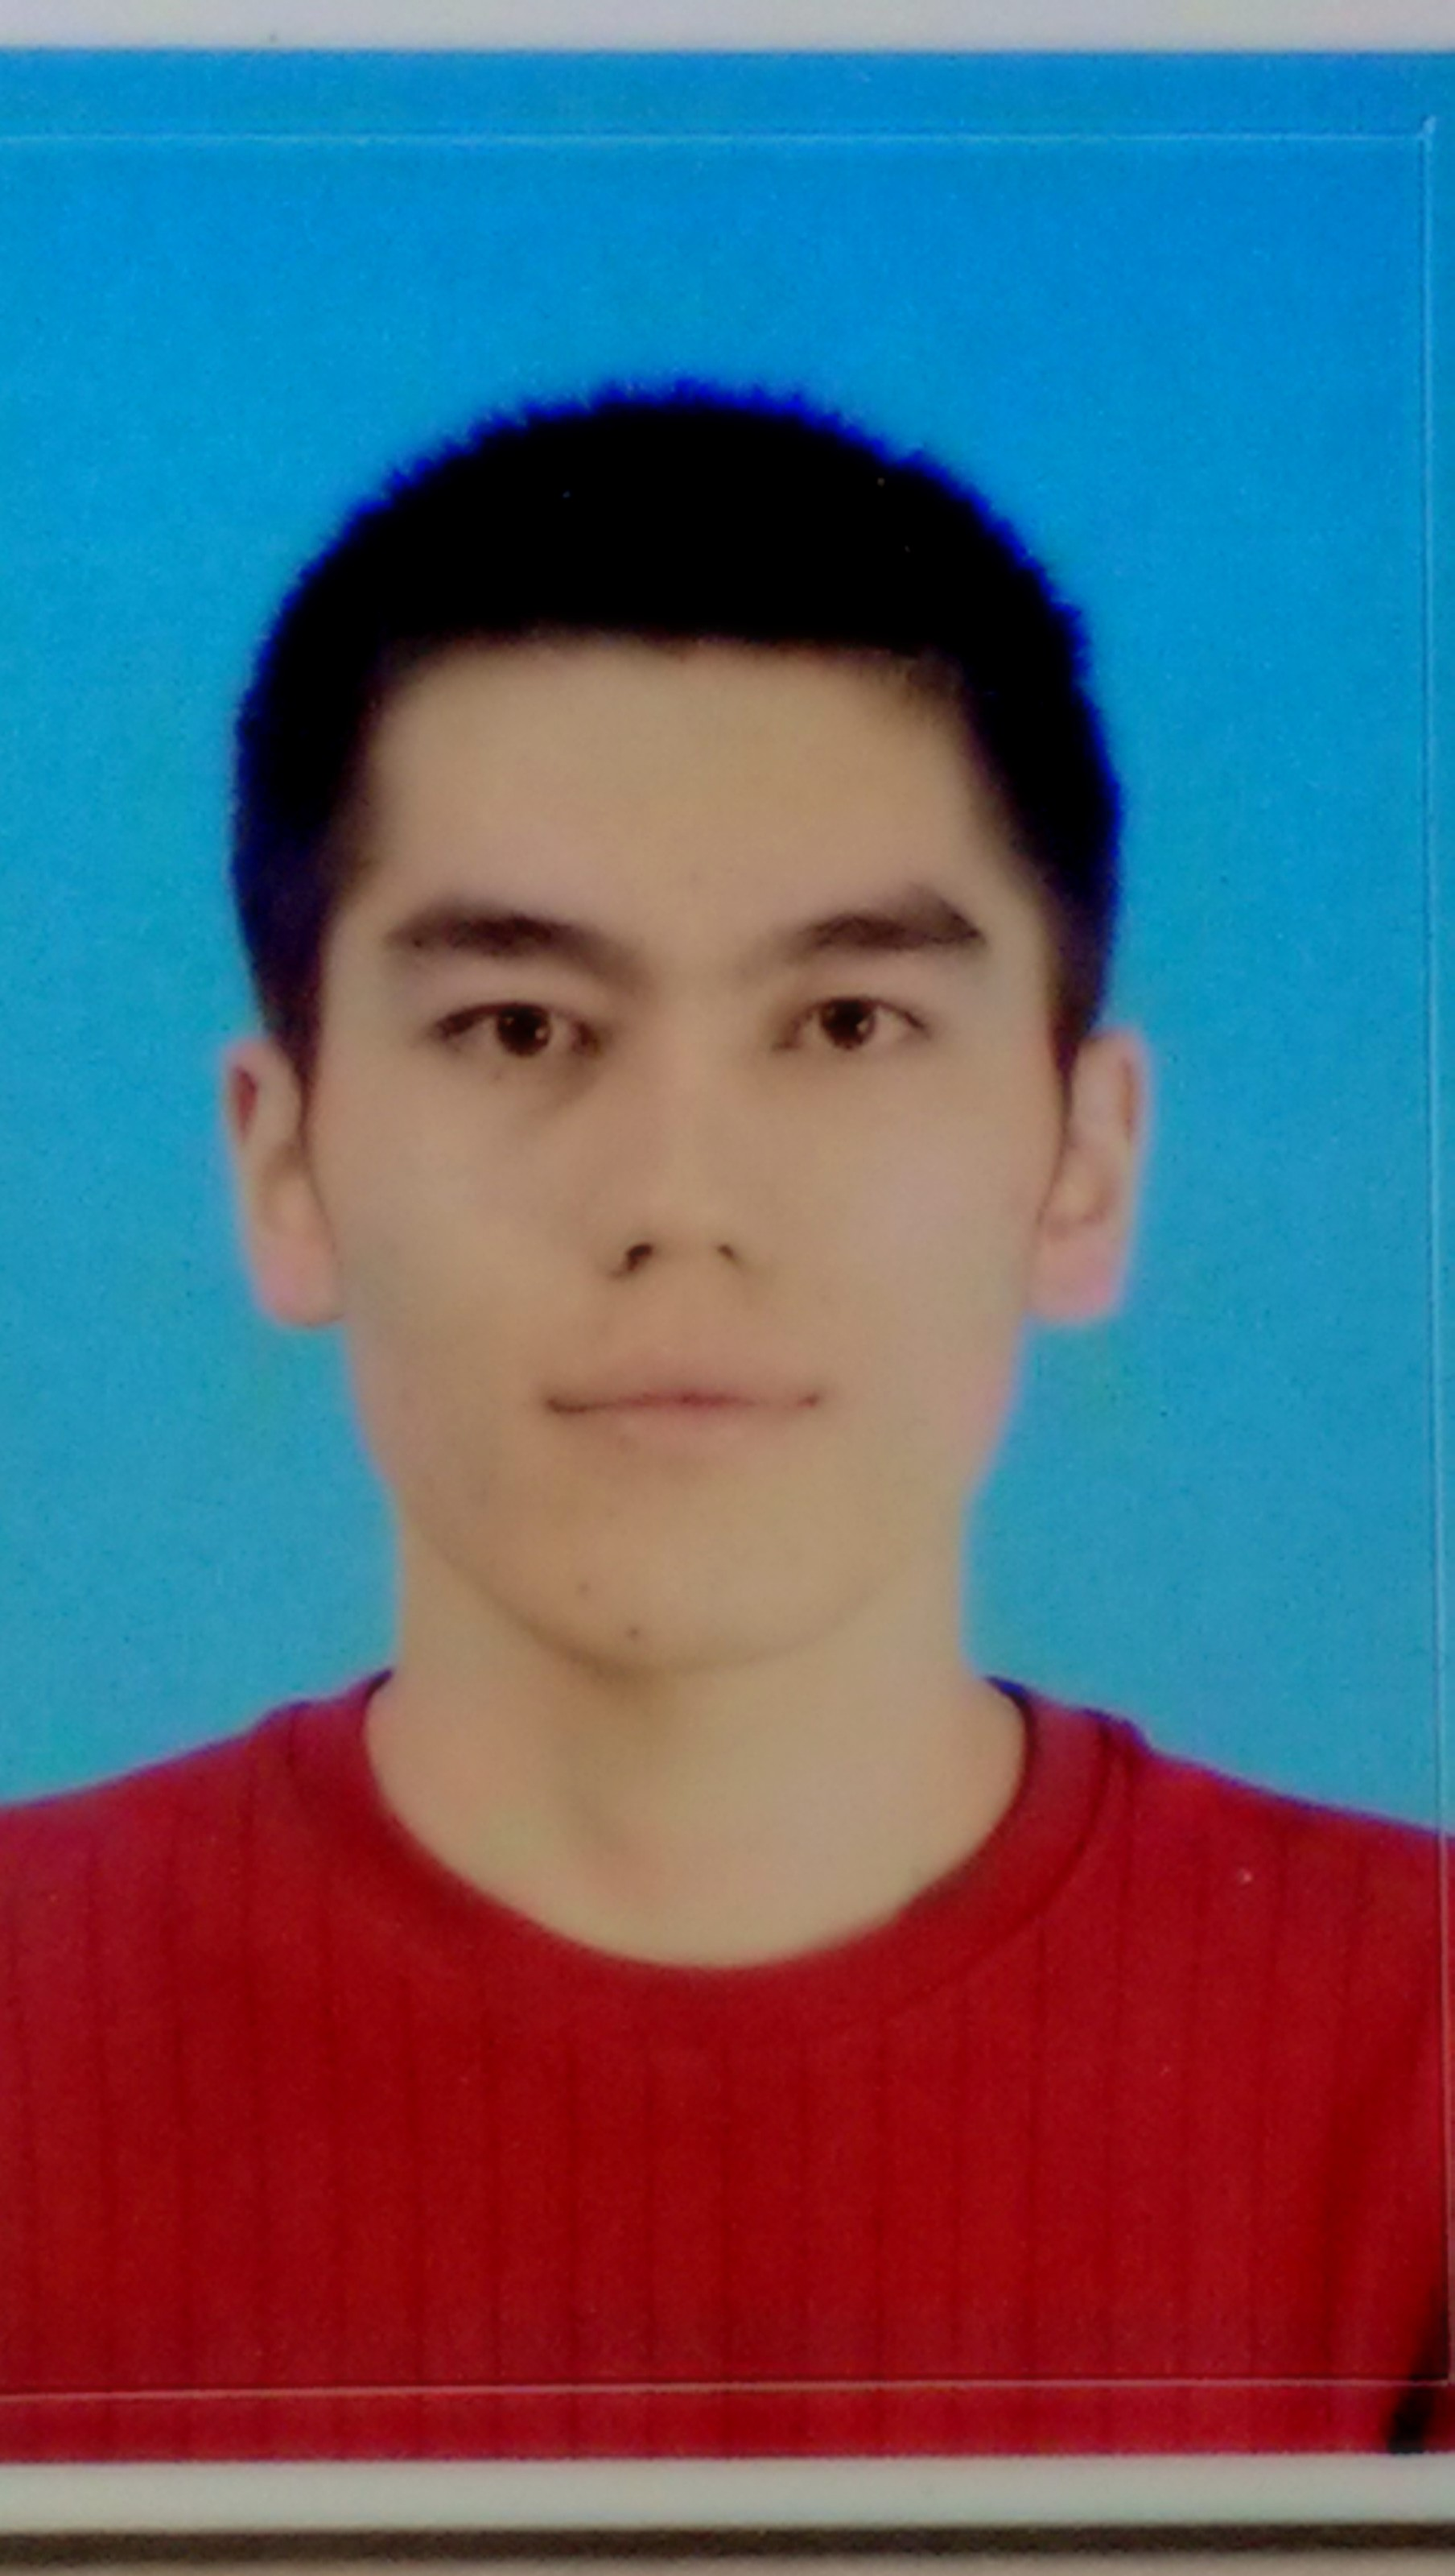
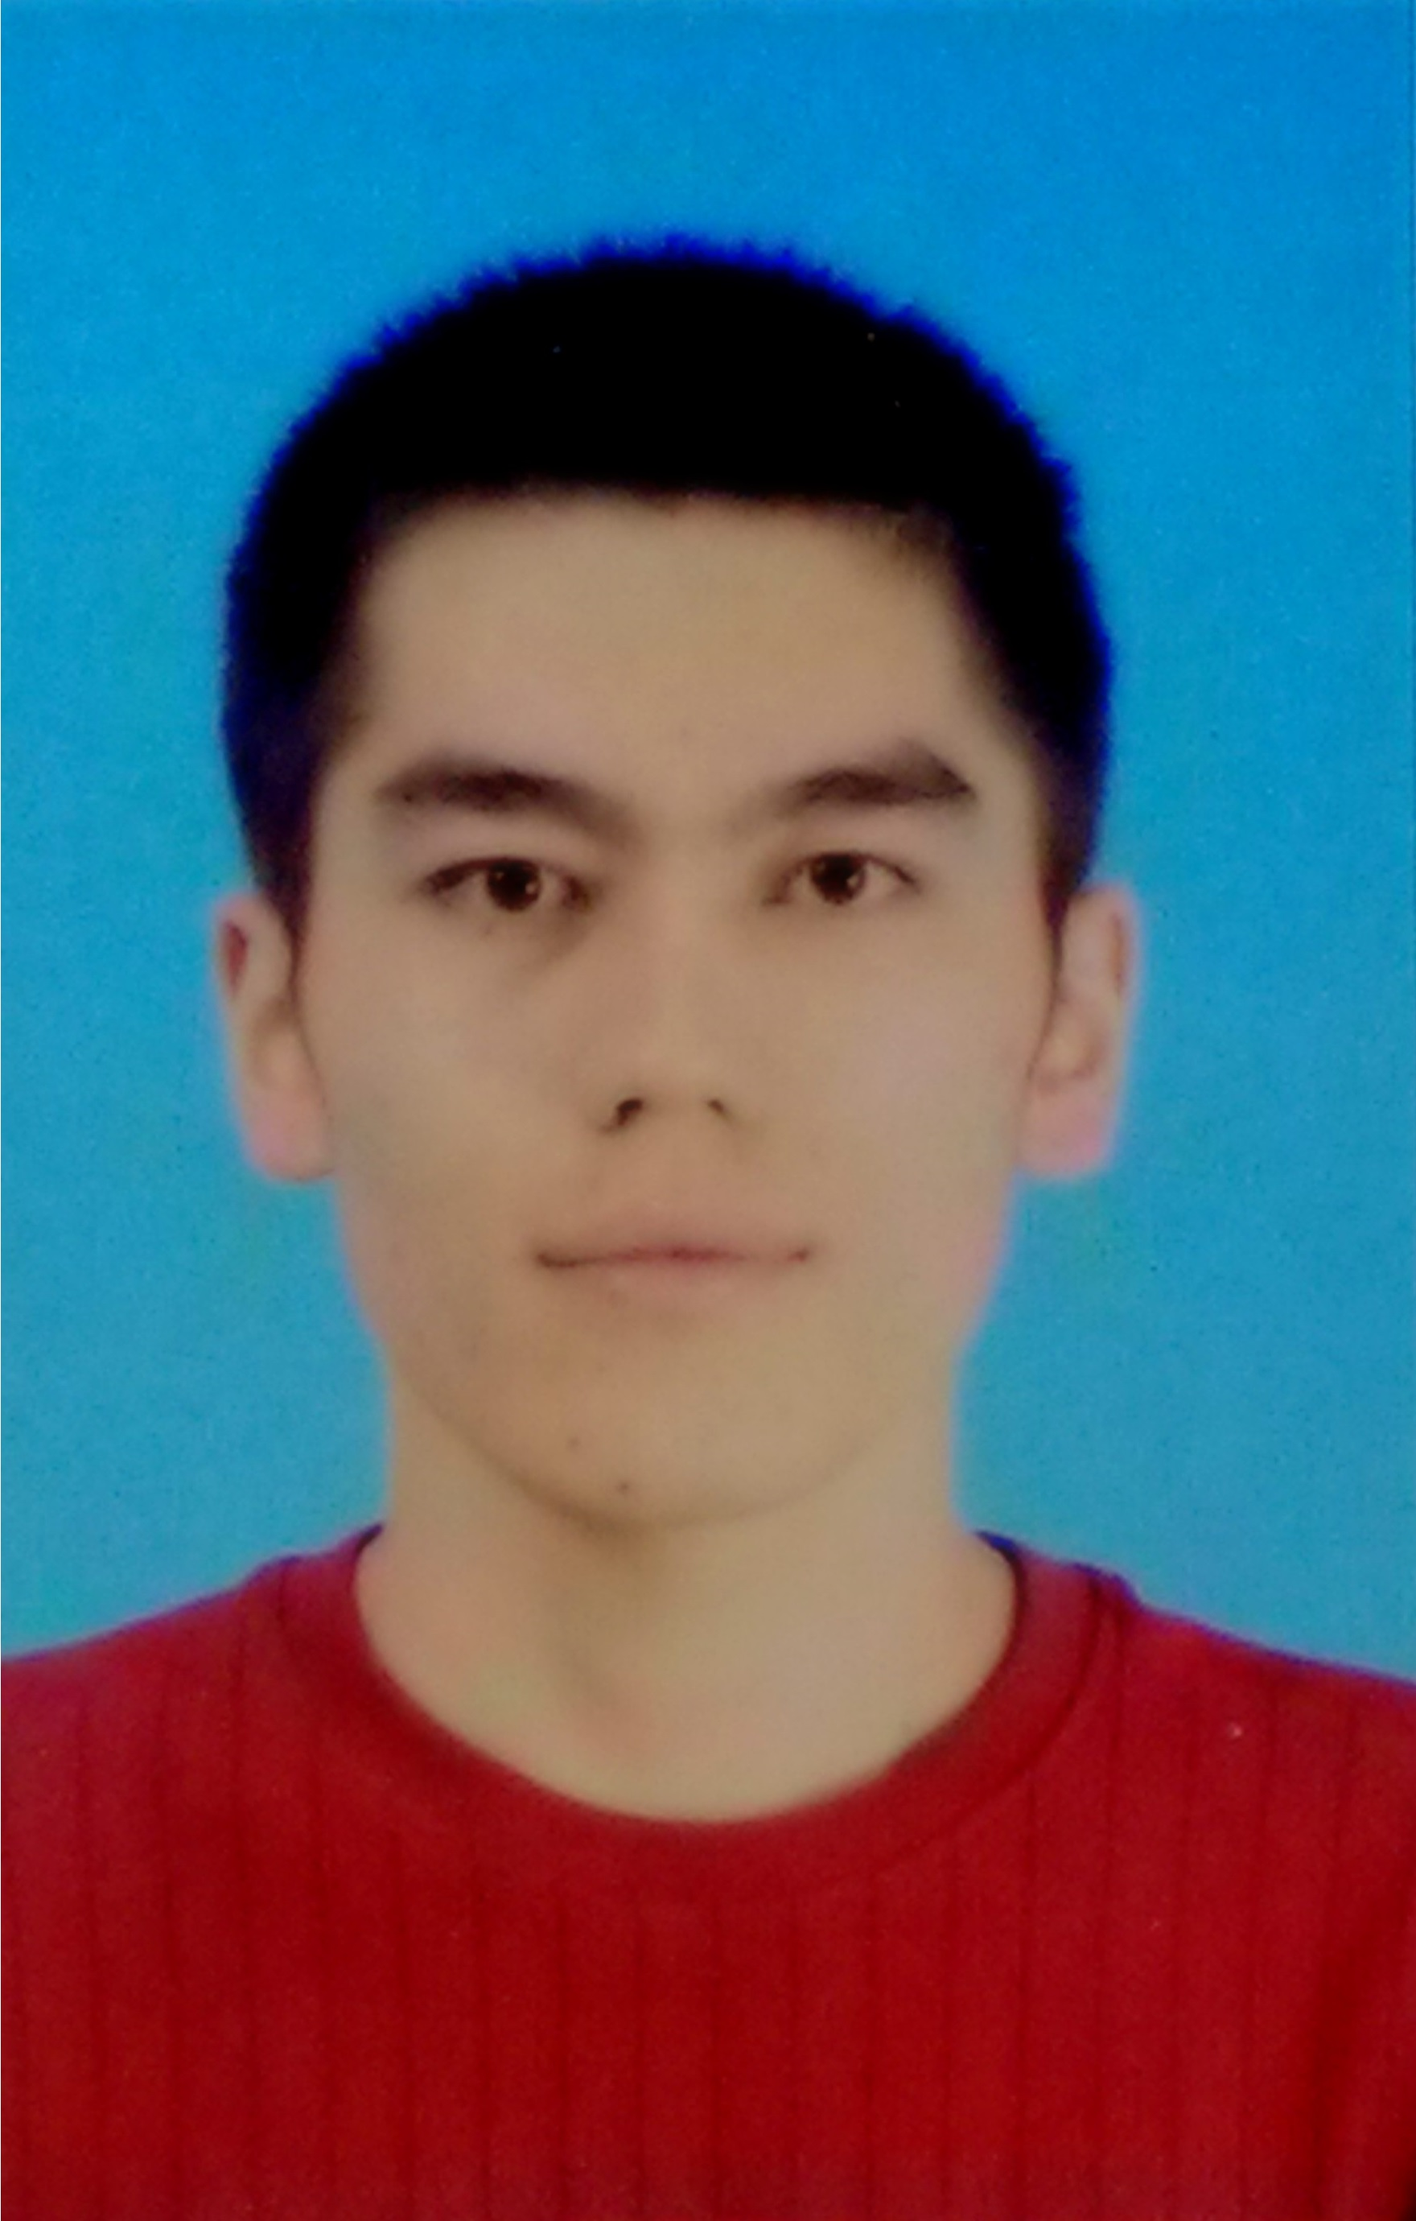
good one

diff --git a/index.html b/index.html
@@ -7,6 +7,15 @@
 <title>Wei Lu (Lu, Wei) - Statistical Natural Language Processing</title>
 <link rel="stylesheet" type="text/css" href="v8.css" />
 <meta http-equiv="Content-Type" content="text/html; charset=iso-8859-1" />
+<style type="text/css">
+<!--
+.STYLE1 {
+	font-size: x-large;
+	font-weight: bold;
+	font-family: Georgia, "Times New Roman", Times, serif;
+}
+-->
+</style>
 </head>
 <body>
 
@@ -30,67 +39,40 @@ function foo() { document.getElementById("foo").innerHTML = String.fromCharCode(
 <body text="#FFFFFF" bgcolor="#363A33" link="#D7E9CD" vlink="#D7E9CD" alink="#FF0000">
 -->
 
-<table cellSpacing="0" cellPadding="0" width="950" border="0" height="52" id="table2">
+<table cellSpacing="0" cellPadding="0" width="1156" border="0" height="52" id="table2">
       	<tr>
-        	<td vAlign="top" width="377" height="30">
+        	<td vAlign="top" width="137" height="30">
 						<p align="center">
-							<!--- --><br>
+							<!--- -->
+							<img src="photo.jpg" width="138" height="239" border="0" align="right" /><br>
 							<!--- -->
 			  </p>		  </td>
-						<td vAlign="center" width="449" height="30"><font  size="6"><b>Li Jiaying</b></font></td>
-						<td vAlign="center" width="124" height="30">
-						<p align="top"><img border="0" height="200" src="photo.jpg" /><br>
-						</p>
-						<p align="left">
-							<font  size="3">
-<!--
-							  <b>Research Fellow </b><br> Computational Linguistics Laboratory<br>
-							  <font size=2.5>Department of Computer Science, School of Computing<br>
-							  National University of Singapore<br>
-							  13 Computing Drive, Singapore 117417<br>
-								Tel: (+65) 6516 2807 Fax: (+65) 6779 4580<br>
-								Email: luwei(at)comp(dot)nus(dot)edu(dot)sg<br>
-								</font>
-							</font>
-							  <br>
-							  <b>
-								<font size =2.5>Former Affiliation:</font><font size=3> Computer Science Programme</font></b><br>
-							  <font size=2.5>
-							  Singapore-MIT Alliance<br>
-							  E4-04-10, 4 Engineering Drive 3, Singapore 117576<br>
-							  Tel: (+65) 6116 4787 Fax: (+65) 6775 2920<br>
-							  Email: luwei(at)csail(dot)mit(dot)edu
-  							  </font>-->
-						</p>		  </td>
+						<td vAlign="center" width="150" height="30"><h1>&nbsp;</h1>					    </td>
+						<td vAlign="center" width="869" height="30">
+						  <h1><span class="STYLE1">Li Jiaying</span></h1>
+						  <p>Ph.D. student, ISTD, SUTD</p>
+						  <p>Address: S6, 2.716, SUTD, 8 Somapah Rd, Singapore, 487372</p>
+						  <p>Tel: (+65)86851683</p>
+						  <p>Email: lijiaying1989@gmail.com<br>
+						  </p>
+					    </td>
       	</tr>
 </table>
-    </table>
-<hr>
-<p align="left"><font size=2><a
- href="cv.pdf">Curriculum Vitae</a> </font></p>
-
-
-
-<!--<font size=3 color="red">News:</font> I am actively looking for a research job in a university/research institute. -->
-
-<p>
-I primarily work on statistical natural language processing. In general, I am interested in employing machine learning techniques
-for better modeling of language, text and other forms of data. 
-
-<!--I received my Ph.D in Nov. 2009 from the Singapore-MIT Alliance (Computer Science) of the <a href="http://www.nus.edu.sg">National University of Singapore</a>. -->
+    <hr>
+<!--<font size=3 color="red">News:</font> I am actively looking for a research job in a university/research institute. --><!--I received my Ph.D in Nov. 2009 from the Singapore-MIT Alliance (Computer Science) of the <a href="http://www.nus.edu.sg">National University of Singapore</a>. -->
 <!-- Currently I am working as a research fellow in the Computer Science department of the National University of Singapore.-->
-
+  
 <!--
 During my Ph.D, I worked with <a href="http://www.comp.nus.edu.sg/~nght">Assoc. Prof. Ng Hwee Tou</a>, <a href="http://www.comp.nus.edu.sg/~leews">Assoc. Prof. Lee Wee Sun</a>, and <a href="http://people.csail.mit.edu/lpk/">Prof. Leslie Pack Kaelbling</a>. I studied in <a href="http://www.comp.nus.edu.sg/">School of Computing</a> of National University of Singapore as an undergraduate, where I worked with <a href="http://www.comp.nus.edu.sg/~kanmy">Assoc. Prof. Kan Min-Yen</a>.
 -->
-
+  
 <!--
 <p align="left">
 Ph.D Thesis: <b>A Hybrid Tree Framework For Semantic Parsing and Natural Language Generation</b>
  [<a href="publications/hybrid-lu09.pdf">Thesis</a>]
 </p>
 -->
-    
+  
 <!--
 <p align="left"><b><font size=3>Referred Journal Publications:</font></b></p>
 
@@ -109,51 +91,30 @@ Wei Lu and Min-Yen Kan
 
 </ul>
 -->
-
+<p align="left"><b><font size="3">Education:</font></b></p>
+<ul>
+  <li>
+    <p align="left"><strong>B.E. in College of Softeware, Nankai University, Tianjin, China, 2007-2011</strong><br />
+      <!--[<a href="publications/emnlp12dlr.pdf">Paper</a>]-->
+    </p>
+  </li>
+  <li>
+    <p align="left"><strong>Study in Institute of Computing Technology, Chinese Academy of Sciences, Beijing, China, 2011-2013</strong><br />
+      <!--[<a href="publications/emnlp09lnl.pdf">Paper</a>][<a href="publications/emnlp09lnl.ppt">Slides</a>]-->
+    </p>
+  </li>
+  <li>
+    <p align="left"><strong>Ph.D. in ISTD, SUTD, Singapore</strong><br />
+    </p>
+  </li>
+</ul>
 <p align="left"><b><font size=3>Recent Publications:</font></b></p>
-
 <ul>
 
 <li>
-<p align="left">
-<b>
-<a href="publications/acl12lr.pdf">Automatic Event Extraction with Structured Preference Modeling</a></b>
-<br>
-Wei Lu and Dan Roth   
-
-<br>
-In <i>Proceedings of ACL'12 </i>
-(The 50th Annual Meeting of the Association for Computational Linguistics).
-Jeju, Korea, July 9 - 11, 2012; pp.835-844.
-<br>
+<p align="left"><strong>N.A. </strong><br>
   <!--[<a href="publications/emnlp12dlr.pdf">Paper</a>]-->
-</p>
-<li>
-<p align="left">
-<b>
-<a href="publications/emnlp11ln.pdf">A Probabilistic Forest-to-String Model for Language Generation from Typed Lambda Calculus Expressions</a></b>
-<br>
-Wei Lu and Hwee Tou Ng
-<br>
-In <i>Proceedings of EMNLP'11 </i>(The 2011 Conference on Empirical Methods in Natural Language Processing). 
-Edinburgh, Scotland, UK, July 27 - 31, 2011; pp.1611-1622. 
-<br>
-<b>Best Paper Award</b><br>
-  <!--[<a href="publications/emnlp09lnl.pdf">Paper</a>][<a href="publications/emnlp09lnl.ppt">Slides</a>]-->
-</p>
-<li>
-<p align="left">
-<b>
-<a href="publications/emnlp08lnlz.pdf">A Generative Model for Parsing Natural Language to Meaning Representations</a></b>
-<br>
-Wei Lu, Hwee Tou Ng, Wee Sun Lee and <a href="http://people.csail.mit.edu/lsz/">Luke S. Zettlemoyer</a>
-<br>
-In <i>Proceedings of EMNLP'08</i> (The 2008 Conference on Empirical Methods in Natural Language Processing). Honolulu, Hawaii, October 25 - 27, 2008; pp.783-792 
-<br>
-<!--[<a href="publications/emnlp08lnlz.pdf">Paper</a>][<a href="publications/emnlp08lnlz.ppt">Slides</a>]-->
-<!---->
-[<a href="code/hybridtree.r.2010.12.19.tgz">Code</a>]
-<!---->
+  <!---->
 </p>
 </ul>
 
@@ -190,10 +151,6 @@ In <i>Proceedings of AIRS'05</i> (The second Asian Information Retrieval Symposi
 </ul>
 
 -->
-
-<p align="left"></p>
-<p align="left"></p>
-
 <!--
 <p align="left"><b><font size=3>Software</font></b> (available upon request):</p>
 
@@ -212,13 +169,12 @@ Semi-Markov CRF Model for Event Extraction
 <br>
 </ul>
 -->
-
 <p align="left"></p>
 <p align="left"></p>
 <p align="left"><b><font size=3>Current interests:</font></b></p>
 
 <p align="left">
-Machine learning methods for NLP.
+Program Analysis, Software Engineering
 
 <!--
 <p align="left"></p>
